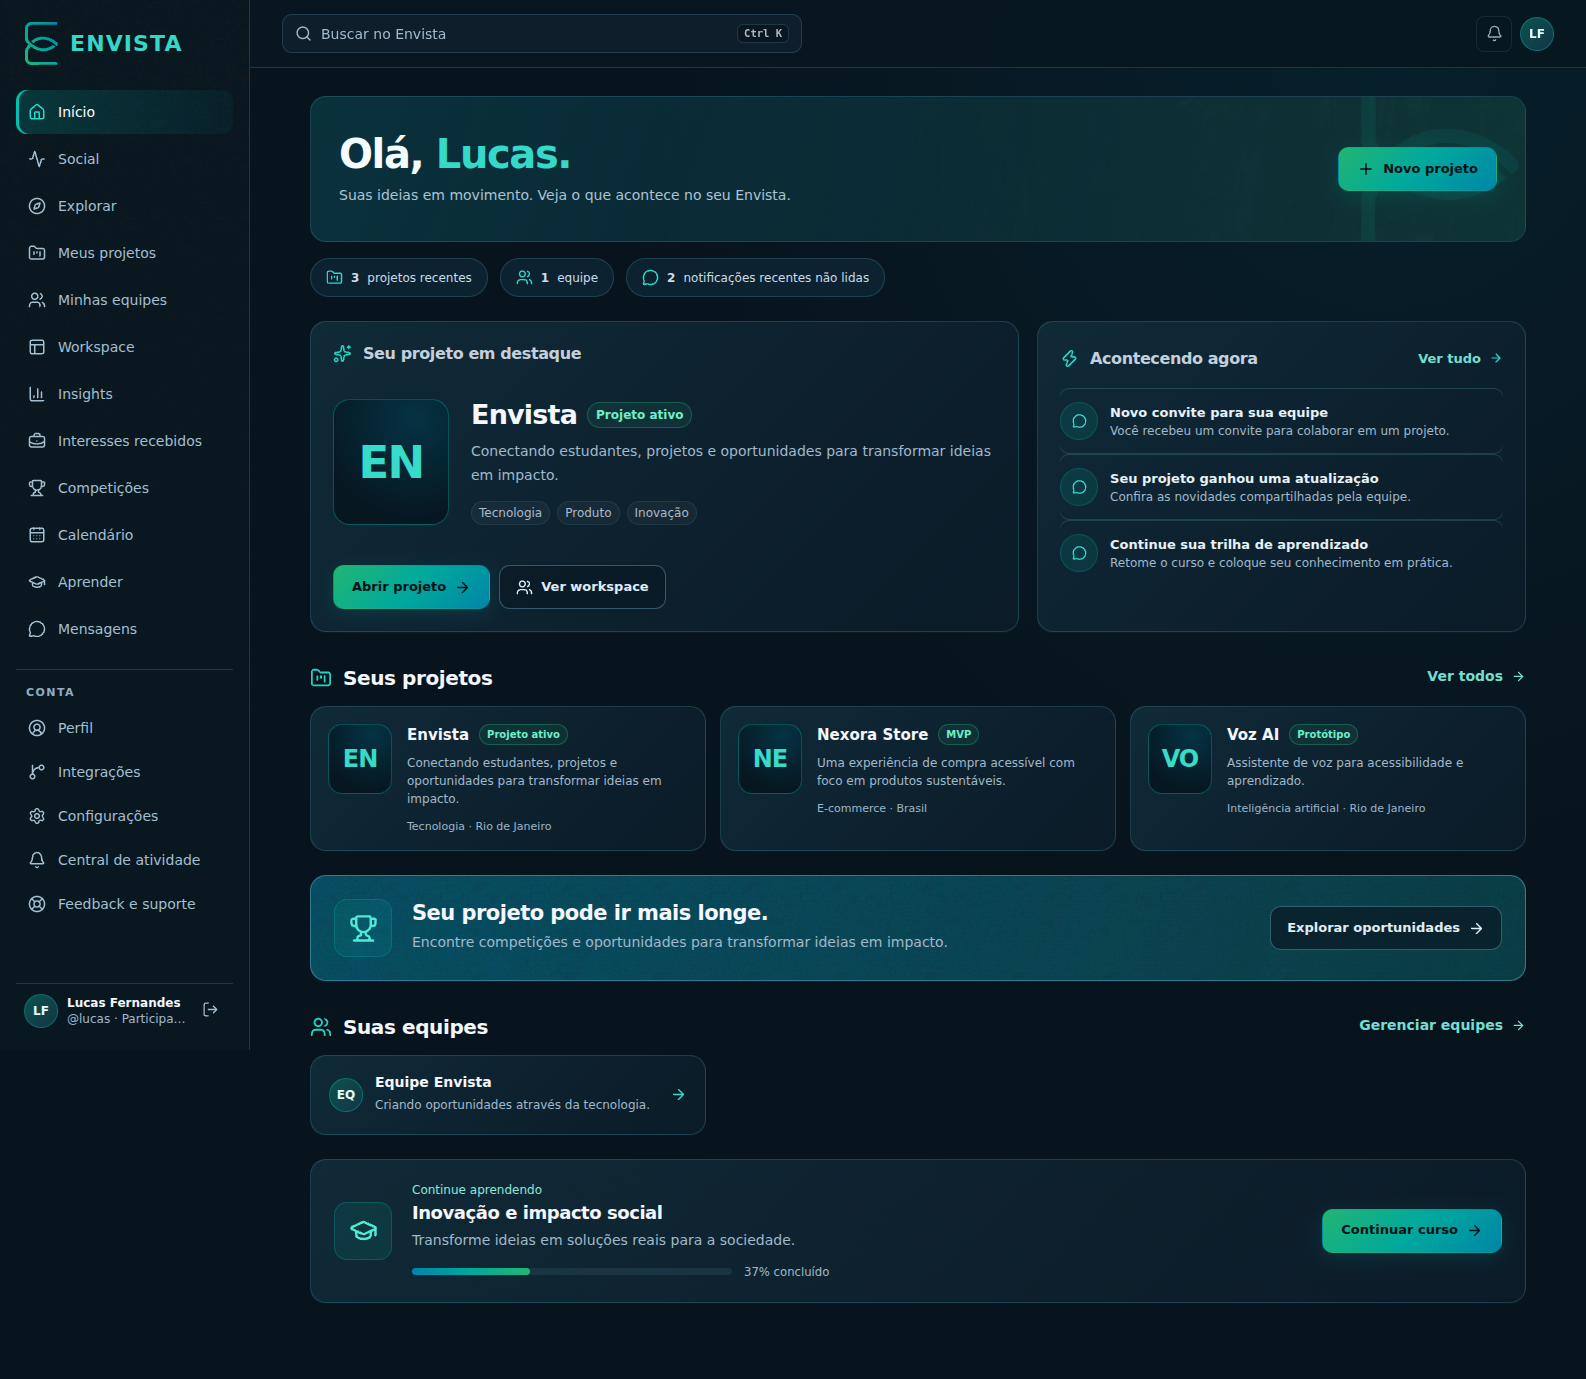
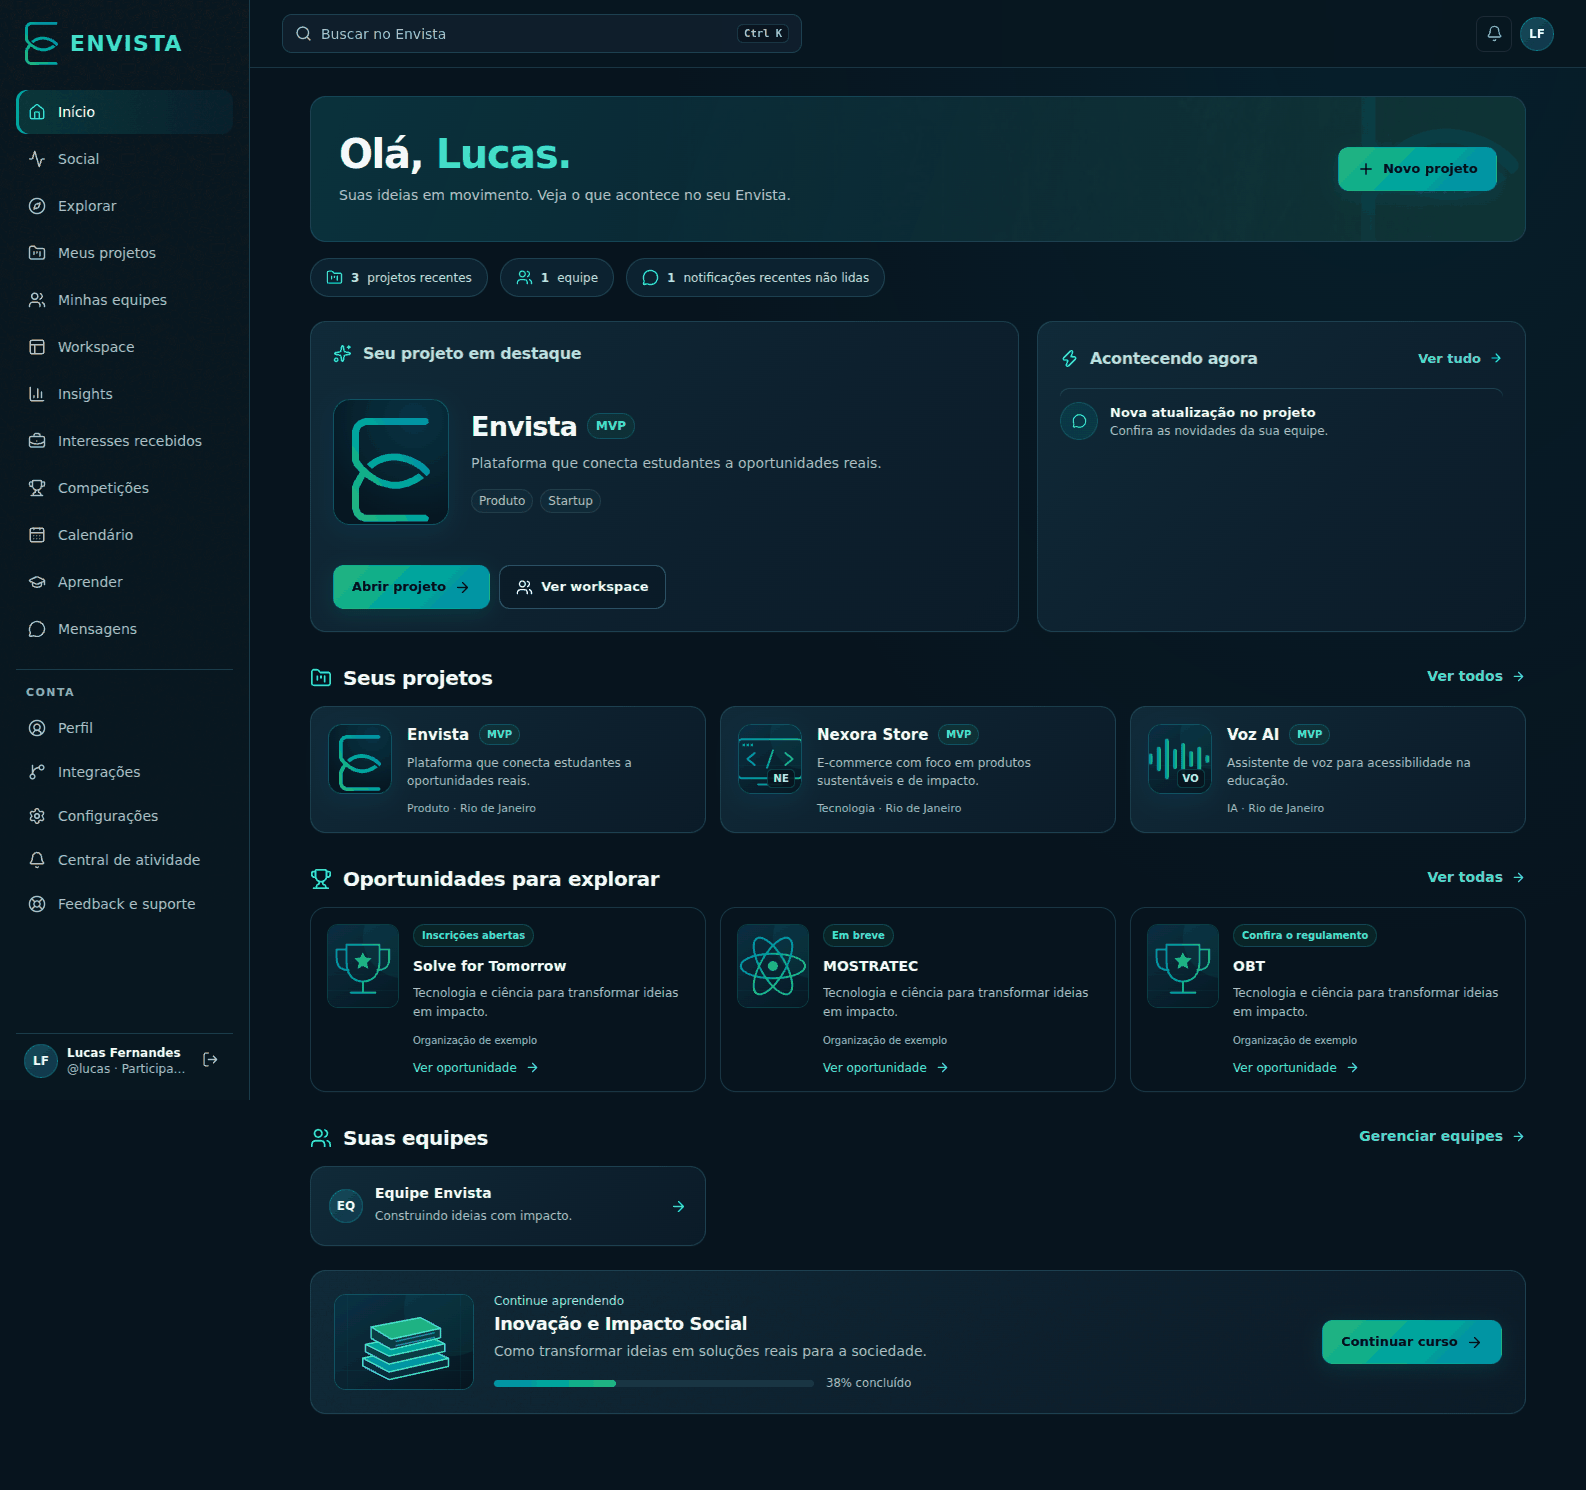
feat: add branded artwork and live opportunity cards

diff --git a/components/product/HomeDashboard.tsx b/components/product/HomeDashboard.tsx
@@ -1,12 +1,12 @@
 import Link from "next/link";
+import ProjectArtwork from "./ProjectArtwork";
+import HomeOpportunities from "./HomeOpportunities";
 import {
   ArrowRight,
   FolderKanban,
-  GraduationCap,
   MessageCircle,
   Plus,
   Sparkles,
-  Trophy,
   Users,
   Zap,
 } from "lucide-react";
@@ -45,23 +45,6 @@ type Props = {
   course: { slug: string; title: string; description: string | null } | null;
   courseProgress: number;
 };
-
-function ProjectMark({
-  title,
-  large = false,
-}: {
-  title: string;
-  large?: boolean;
-}) {
-  return (
-    <span
-      className={`dashboard-project-mark${large ? " large" : ""}`}
-      aria-hidden="true"
-    >
-      {title.slice(0, 2).toUpperCase()}
-    </span>
-  );
-}
 
 export default function HomeDashboard({
   name,
@@ -151,7 +134,7 @@ export default function HomeDashboard({
           {featured ? (
             <>
               <div className="dashboard-featured-body">
-                <ProjectMark title={featured.title} large />
+                <ProjectArtwork title={featured.title} category={featured.category} large />
                 <div className="grow">
                   <div className="dashboard-featured-title">
                     <h3>{featured.title}</h3>
@@ -260,7 +243,7 @@ export default function HomeDashboard({
           <div className="dashboard-project-grid">
             {projects.slice(0, 6).map((project) => (
               <article className="panel dashboard-project" key={project.id}>
-                <ProjectMark title={project.title} />
+                <ProjectArtwork title={project.title} category={project.category} />
                 <div className="grow">
                   <div className="dashboard-project-title">
                     <h3>
@@ -298,25 +281,7 @@ export default function HomeDashboard({
           </div>
         )}
       </section>
-      <section
-        className="panel dashboard-opportunity"
-        aria-labelledby="opportunity-title"
-      >
-        <span className="dashboard-opportunity-icon">
-          <Trophy size={29} aria-hidden="true" />
-        </span>
-        <div className="grow">
-          <h2 id="opportunity-title">Seu projeto pode ir mais longe.</h2>
-          <p>
-            Encontre competições e oportunidades para transformar ideias em
-            impacto.
-          </p>
-        </div>
-        <Link className="secondary" href="/competitions">
-          Explorar oportunidades
-          <ArrowRight size={17} aria-hidden="true" />
-        </Link>
-      </section>
+      <HomeOpportunities />
       <section className="section-block" aria-labelledby="teams-title">
         <div className="section-row">
           <h2 id="teams-title">
@@ -370,9 +335,7 @@ export default function HomeDashboard({
         className="panel dashboard-learning"
         aria-labelledby="learning-title"
       >
-        <span className="dashboard-learning-icon">
-          <GraduationCap size={29} aria-hidden="true" />
-        </span>
+        <img className="dashboard-learning-art" src="/brand/learning-books.svg" alt="" width="320" height="200" loading="lazy" />
         <div className="grow">
           <span className="dashboard-learning-label">
             {course ? "Continue aprendendo" : "Aprenda e coloque em prática"}

diff --git a/app/authenticated-layout-v2.css b/app/authenticated-layout-v2.css
@@ -407,3 +407,34 @@
   color: var(--ev-muted);
   margin-left: auto;
 }
+
+/* Illustrated tiles keep the brand present even before a project has a logo. */
+.dashboard-project-mark { position: relative; overflow: hidden; box-shadow: 0 6px 24px rgba(0, 134, 167, .13); }
+.dashboard-project-mark > img { width: 100%; height: 100%; object-fit: cover; }
+.dashboard-project-mark > img[src*="envista-symbol"] { object-fit: contain; padding: 16%; }
+.dashboard-project-mark > span { position: absolute; bottom: 5px; right: 6px; font-size: 10px; letter-spacing: .02em; background: #07141ee6; color: #baf9ee; border: 1px solid #00a99d55; padding: 3px 5px; border-radius: 5px; }
+.dashboard-project-mark.large > span { font-size: 12px; bottom: 8px; right: 8px; }
+.project-card-artwork { margin: -8px -8px 18px; padding: 20px; border-radius: 12px; background: radial-gradient(ellipse at 80% 10%, #0086a72e, transparent 70%), url('/brand/envista-pattern-original.png') center/300px, #0a1e2b; }
+.project-card-artwork .dashboard-project-mark { width: 100%; height: 124px; }
+.project-card-artwork .dashboard-project-mark > img { object-fit: contain; }
+.dashboard-learning-art { width: 140px; height: 96px; flex: 0 0 140px; object-fit: cover; border-radius: 12px; border: 1px solid #00a99d55; }
+.dashboard-opportunity-art { width: 100px; height: 80px; object-fit: cover; border-radius: 12px; }
+.dashboard-opportunity-grid { display: grid; grid-template-columns: repeat(3, minmax(0, 1fr)); gap: 14px; }
+.app-shell .dashboard-opportunity-card { display: flex; gap: 14px; padding: 16px; text-decoration: none; background: radial-gradient(ellipse at 90% 0, #0086a720, transparent 75%), var(--ev-bg-card) !important; }
+.dashboard-opportunity-card > img { flex: 0 0 72px; width: 72px; height: 84px; object-fit: cover; border: 1px solid #00a99d44; border-radius: 11px; }
+.dashboard-opportunity-card > div { min-width: 0; }
+.dashboard-opportunity-card h3 { font-size: 14px; line-height: 1.4; margin: 10px 0 7px; }
+.dashboard-opportunity-card p { color: var(--ev-muted); font-size: 12px; margin: 0 0 8px; display: -webkit-box; -webkit-line-clamp: 2; -webkit-box-orient: vertical; overflow: hidden; }
+.dashboard-opportunity-card small { color: var(--ev-muted); font-size: 10px; }
+.dashboard-opportunity-card .stage { font-size: 10px; white-space: normal; }
+.dashboard-opportunity-card [data-status="UPCOMING"] { color: #f8ce80; border-color: #b7843544; background: #b7843518; }
+.dashboard-opportunity-card [data-status="UNKNOWN"] { color: var(--ev-muted); }
+.dashboard-opportunity-cta { display: flex; align-items: center; gap: 8px; font-size: 12px; color: #67e9d8; margin-top: 13px; }
+.dashboard-opportunity-card:hover { border-color: #00a99d !important; }
+@media (max-width: 1200px) { .dashboard-opportunity-grid { grid-template-columns: repeat(2, minmax(0, 1fr)); } }
+@media (max-width: 650px) {
+  .dashboard-opportunity-grid { grid-template-columns: 1fr; }
+  .dashboard-learning-art { width: 80px; height: 80px; flex-basis: 80px; }
+  .dashboard-learning .grow { flex-basis: calc(100% - 100px); }
+  .dashboard-opportunity-art { width: 64px; height: 76px; }
+}

diff --git a/components/product/HomeOpportunities.tsx b/components/product/HomeOpportunities.tsx
@@ -1,0 +1,36 @@
+"use client";
+
+import Link from "next/link";
+import { useEffect, useState } from "react";
+import { ArrowRight, Trophy } from "lucide-react";
+import type { LiveCompetition, LiveCompetitionsResponse } from "@/lib/competitions/types";
+
+const statusLabels = { OPEN: "Inscrições abertas", UPCOMING: "Em breve", UNKNOWN: "Confira o regulamento" };
+
+export default function HomeOpportunities() {
+  const [items, setItems] = useState<LiveCompetition[] | null>(null);
+  const [failed, setFailed] = useState(false);
+  useEffect(() => {
+    const controller = new AbortController();
+    fetch("/api/competitions", { credentials: "same-origin", signal: controller.signal })
+      .then(async (response) => {
+        if (!response.ok) throw new Error("competitions");
+        const data = await response.json() as LiveCompetitionsResponse;
+        setItems(data.items.filter((item) => item.status !== "CLOSED").slice(0, 3));
+      }).catch(() => { if (!controller.signal.aborted) setFailed(true); });
+    return () => controller.abort();
+  }, []);
+  return <section className="section-block" aria-labelledby="opportunity-title">
+    <div className="section-row"><h2 id="opportunity-title"><Trophy size={22} aria-hidden="true" /> Oportunidades para explorar</h2>
+      <Link className="text-btn" href="/competitions">Ver todas <ArrowRight size={15} aria-hidden="true" /></Link></div>
+    {items?.length ? <div className="dashboard-opportunity-grid">{items.map((item) => <Link className="panel dashboard-opportunity-card" href={`/competitions/${encodeURIComponent(item.slug)}`} key={item.id}>
+      <img src={/ciência|cient|science|mostratec/i.test(`${item.name} ${item.type}`) ? "/brand/opportunity-science.svg" : "/brand/opportunity-challenge.svg"} alt="" width="320" height="200" loading="lazy" />
+      <div><span className="stage" data-status={item.status}>{statusLabels[item.status as keyof typeof statusLabels]}</span><h3>{item.name}</h3><p>{item.description || item.organizer}</p><small>{item.organizer}</small>
+        <span className="dashboard-opportunity-cta">Ver oportunidade <ArrowRight size={15} aria-hidden="true" /></span></div>
+    </Link>)}</div> : <div className="panel dashboard-opportunity">
+      <img className="dashboard-opportunity-art" src="/brand/opportunity-challenge.svg" alt="" width="320" height="200" />
+      <div className="grow"><h3>Seu projeto pode ir mais longe.</h3><p role="status">{failed ? "Não foi possível carregar as oportunidades agora." : items ? "Explore o catálogo e confira os próximos eventos." : "Buscando oportunidades nas fontes oficiais…"}</p></div>
+      <Link className="secondary" href="/competitions">Explorar oportunidades <ArrowRight size={17} aria-hidden="true" /></Link>
+    </div>}
+  </section>;
+}

diff --git a/components/real/ProjectsViews.tsx b/components/real/ProjectsViews.tsx
@@ -1,4 +1,5 @@
 import Link from "next/link";
+import ProjectArtwork from "@/components/product/ProjectArtwork";
 import ProjectFilesPanel from "@/components/storage/ProjectFilesPanel";
 import FollowEntityButton from "@/components/real/FollowEntityButton";
 import { createProjectAction, deleteProjectAction, updateProjectAction } from "@/lib/projects/actions";
@@ -20,7 +21,7 @@ export function ProjectsIndex({role,projects,status,error}:{role:Role;projects:P
  return <>
   <div className={`page-head ${styles.head}`}><div><h1>Meus projetos</h1><p className={styles.muted}>Seus projetos pessoais e os projetos que você constrói em equipe.</p></div><Link className={styles.primary} href={`${base}/new`}>Criar projeto</Link></div>
   {notice&&<div className={styles.notice}>{notice}</div>}{failure&&<div className={styles.error}>{failure}</div>}
-  {projects.length===0?<div className={styles.empty}>Você ainda não possui projetos reais. Crie o primeiro para começar.</div>:<div className={styles.grid}>{projects.map(project=><article className={styles.card} key={project.id}><Link href={`${base}/${project.slug}`}><h2>{project.title}</h2></Link><p className={styles.muted}>{project.short_description||"Sem descrição curta."}</p><p className={styles.owner}>{project.ownerLabel||"Autoria não informada"}</p><div className={styles.meta}><span className={styles.pill}>{project.stage}</span>{project.category&&<span className={styles.pill}>{project.category}</span>}<span className={styles.pill}>{project.visibility==="private"?"Privado":"Na plataforma"}</span>{project.tags.slice(0,3).map(tag=><span className={styles.pill} key={tag}>{tag}</span>)}</div></article>)}</div>}
+  {projects.length===0?<div className={styles.empty}>Você ainda não possui projetos reais. Crie o primeiro para começar.</div>:<div className={styles.grid}>{projects.map(project=><article className={styles.card} key={project.id}><div className="project-card-artwork"><ProjectArtwork title={project.title} category={project.category} large /></div><Link href={`${base}/${project.slug}`}><h2>{project.title}</h2></Link><p className={styles.muted}>{project.short_description||"Sem descrição curta."}</p><p className={styles.owner}>{project.ownerLabel||"Autoria não informada"}</p><div className={styles.meta}><span className={styles.pill}>{project.stage}</span>{project.category&&<span className={styles.pill}>{project.category}</span>}<span className={styles.pill}>{project.visibility==="private"?"Privado":"Na plataforma"}</span>{project.tags.slice(0,3).map(tag=><span className={styles.pill} key={tag}>{tag}</span>)}</div></article>)}</div>}
  </>;
 }
 

diff --git a/components/competitions/CompetitionsClient.tsx b/components/competitions/CompetitionsClient.tsx
@@ -178,7 +178,7 @@ export function CompetitionsBrowser({
 
     <div className={styles.grid}>
       {paginated.map(({ item, recommendation }) => <Link prefetch={false} className={styles.card} href={`${basePath}/${item.slug}`} key={item.id}>
-        <div className={styles.banner}><span className={`${styles.status} ${statusClass(item.status)}`}>{statusLabels[item.status]}</span><span>{item.level}</span></div>
+        <div className={styles.banner}><img className={styles.bannerArtwork} src={/ciência|cient|mostratec/i.test(`${item.name} ${item.type}`) ? "/brand/opportunity-science.svg" : "/brand/opportunity-challenge.svg"} alt="" width="320" height="200" loading="lazy" /><span className={`${styles.status} ${statusClass(item.status)}`}>{statusLabels[item.status]}</span><span>{item.level}</span></div>
         <div className={styles.body}>
           {(recommendation.project || recommendation.team) && <div className={styles.matchStack}>
             {recommendation.project && <MatchBadge match={recommendation.project} />}

diff --git a/components/competitions/Competitions.module.css b/components/competitions/Competitions.module.css
@@ -84,3 +84,6 @@
 @media(max-width:650px){.grid{grid-template-columns:1fr}.filters{grid-template-columns:1fr}.head,.recommendationIntro{align-items:flex-start;flex-direction:column}.liveActions{justify-content:flex-start}.recommendationIntro label{white-space:normal}.banner{height:82px}.pagination{width:100%;justify-content:space-between;gap:6px;flex-wrap:wrap}.pageNumbers{order:3;width:100%;justify-content:center}.pagination button{padding:0 9px}}
 
 .officialLinks{display:grid;gap:9px;margin-top:10px}.officialLinks .official{width:100%;box-sizing:border-box;text-align:center}
+.bannerArtwork { width: 72px; height: 64px; object-fit: cover; border-radius: 10px; border: 1px solid #00a99d55; flex-shrink: 0; }
+.banner { height: auto; min-height: 108px; align-items: center; flex-wrap: wrap; }
+@media (max-width: 650px) { .banner { height: auto; min-height: 108px; } }

diff --git a/components/real/LegacyDashboardServerPages.tsx b/components/real/LegacyDashboardServerPages.tsx
@@ -1,4 +1,5 @@
 import Link from "next/link";
+import ProjectArtwork from "@/components/product/ProjectArtwork";
 import HomeDashboard from "@/components/product/HomeDashboard";
 import { Bookmark, Eye, FolderKanban, GraduationCap, MessageCircle, Trophy, Users } from "lucide-react";
 import LegacySocialShell from "@/components/social/LegacySocialShell";
@@ -47,7 +48,7 @@ function ProjectCard({ project, role, action }: { project: ProjectCardRow; role:
   return (
     <article className="project-card">
       <div className="project-cover">
-        <span className="project-initial">{project.title.slice(0, 1).toUpperCase()}</span>
+        <ProjectArtwork title={project.title} category={project.category} />
         <span className="stage">{project.stage}</span>
       </div>
       <div className="card-body">

diff --git a/components/product/ProjectArtwork.tsx b/components/product/ProjectArtwork.tsx
@@ -1,0 +1,12 @@
+export default function ProjectArtwork({ title, category = "", large = false }: {
+  title: string; category?: string; large?: boolean;
+}) {
+  const topic = `${title} ${category}`.toLocaleLowerCase("pt-BR");
+  const envista = title.trim().toLocaleLowerCase("pt-BR") === "envista";
+  const art = /voz|áudio|audio|assistente/.test(topic) ? "voice"
+    : /social|sustent|ambiente|educa|impacto/.test(topic) ? "impact" : "build";
+  return <span className={`dashboard-project-mark${large ? " large" : ""}`} aria-hidden="true">
+    <img src={envista ? "/brand/envista-symbol-gradient.svg" : `/brand/project-${art}.svg`} alt="" width="320" height="200" />
+    {!envista && <span>{title.slice(0, 2).toUpperCase()}</span>}
+  </span>;
+}

diff --git a/docs/redesign/README.md b/docs/redesign/README.md
@@ -12,7 +12,7 @@ A aplicação autenticada passa a usar a mesma navegação em todas as abas. A h
 
 ## Capturas de referência
 
-As capturas abaixo usam os componentes de produção com **dados de exemplo locais** para revisão visual. Os dados de exemplo e a rota temporária de inspeção não fazem parte da aplicação publicada. A home real mantém suas consultas existentes, inclusive estados vazios e progresso real de cursos; não inventa percentuais de projetos ou oportunidades.
+As capturas abaixo usam os componentes de produção com **dados de exemplo locais** para revisão visual. Os dados de exemplo e a rota temporária de inspeção não fazem parte da aplicação publicada. A home real mantém suas consultas existentes e consulta a API já existente de competições, inclusive estados vazios e progresso real de cursos; não inventa percentuais de projetos ou oportunidades.
 
 ![Home desktop](./home-desktop.png)
 
@@ -28,3 +28,10 @@ As capturas abaixo usam os componentes de produção com **dados de exemplo loca
 - Home também revisada com conta vazia.
 
 **Limite:** sem credenciais de uma conta de teste, os fluxos autenticados com dados reais (publicar, conversar, vincular GitHub, editar perfil e tarefas) precisam de smoke test no preview conectado ao ambiente antes do merge. A revisão local não comprova esses fluxos fim a fim.
+
+## Refinamento com imagens
+
+- Artes SVG locais e leves: desenvolvimento, impacto social, voz, ciência, competições e livros. Os projetos usam uma arte por tema com suas iniciais; o projeto Envista usa o símbolo oficial. As artes são ilustrativas, não logotipos oficiais de competições.
+- A home exibe até três oportunidades não encerradas pela API existente, preservando o estado real de inscrições e uma saída útil para carregamento, vazio e falha.
+- A mesma linguagem de imagens aparece nas listas de projetos e competições. Sem dependências, imagens externas ou migrações adicionais.
+- Refinamento inspecionado em 1586, 980, 768, 390 e 320px: sem overflow horizontal, imagens carregadas e sem erros JS. Estados vazio e erro da API também verificados.
